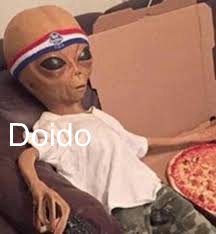
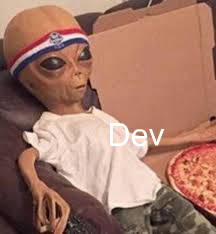
'ListPharses'

Changed region(s): [[0.0278, 0.5085, 0.4167, 0.6282], [0.5, 0.5085, 0.7778, 0.6282]]

diff --git a/app.js b/app.js
@@ -1,9 +1,11 @@
 var Jimp = require("jimp");
 const fs = require('fs');
 
-var legends = ['Dorgas', 'ET chapado', 'Doido'];
-
-var legend;
+var legends = fs.readFileSync('./listPharses.txt').toString().split("\n");
+var listLegends = [];
+for (i in legends) {
+    listLegends.push(legends[i]);
+}
 
 const dir = './resources/';
 
@@ -16,7 +18,7 @@ fs.readdir(dir, (err, files) => {
         var loadImage;
         Jimp.read(image)
             .then(function (image) {
-                widthImage = image.bitmap.width / 2 - 100;
+                widthImage = image.bitmap.width / 2;
                 heightImage = image.bitmap.height / 2;
 
                 loadImage = image;
@@ -25,7 +27,10 @@ fs.readdir(dir, (err, files) => {
             .then(function (font) {
                 image = image.split('/');
 
-                loadImage.print(font, widthImage, heightImage, legends[Math.floor(Math.random() * legends.length)])
+                var sizeLegend = listLegends[Math.floor(Math.random() * listLegends.length)].length;
+                var position = widthImage - sizeLegend / 100;
+
+                loadImage.print(font, position, heightImage, listLegends[Math.floor(Math.random() * listLegends.length)])
                     .write('./output/' + image[2])
                     .resize(500, 500)
                     .quality(100);

diff --git a/README.md b/README.md
@@ -1,0 +1,2 @@
+# etdev
+Gerador de memes ET programador
